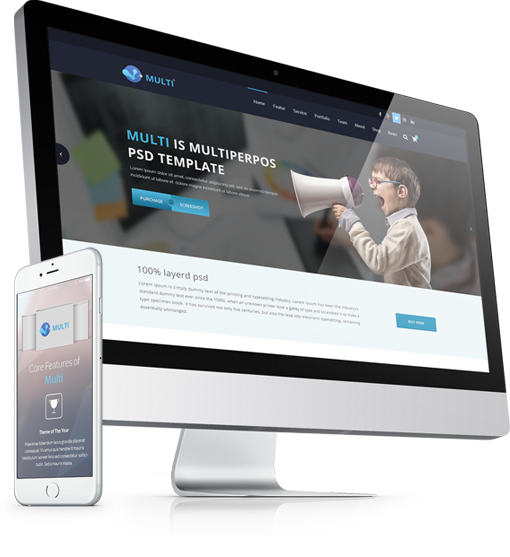
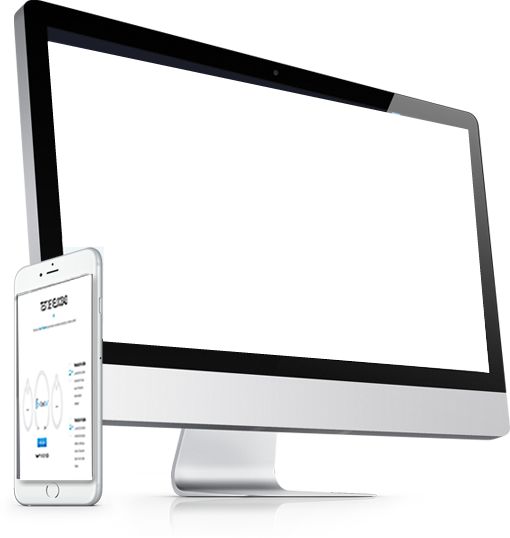
cambios index
cambios index

diff --git a/index.html b/index.html
@@ -95,8 +95,8 @@
         <section id="features">
             <div class="container">
                 <div class="section-header">
-                    <h2 class="section-title text-center wow fadeInDown">Awesome Features</h2>
-                    <p class="text-center wow fadeInDown">Lorem ipsum dolor sit amet, consectetur adipisicing elit, sed do eiusmod tempor incididunt ut <br> et dolore magna aliqua. Ut enim ad minim veniam</p>
+                    <h2 class="section-title text-center wow fadeInDown">CON <b style="color: #2C8FB3">SUPER TV</b> TIENES</h2>
+                    
                 </div>
                 <div class="row">
                     <div class="col-sm-6 wow fadeInLeft">
@@ -108,40 +108,34 @@
                                 <i class="fa fa-line-chart"></i>
                             </div>
                             <div class="media-body">
-                                <h4 class="media-heading">UX design</h4>
-                                <p>Backed by some of the biggest names in the industry, Firefox OS is an open platform that fosters greater</p>
+                                <h4 class="media-heading">Alta velocidad</h4>
+                                <p>Con este servicio accederás fácilmente a las múltiples herramientas de Internet de una manera ágil y segura. Podrás comunicarte mediante correo electrónico, chatear con tus amigos, consultar la información que prefieras y enterarte de todo lo que pasa en el mundo;</p>
                             </div>
                         </div>
 
                         <div class="media service-box wow fadeInRight">
                             <div class="pull-left">
-                                <i class="fa fa-cubes"></i>
+                                <i class="fa fa-headphones"></i>
                             </div>
                             <div class="media-body">
-                                <h4 class="media-heading">UI design</h4>
-                                <p>Backed by some of the biggest names in the industry, Firefox OS is an open platform that fosters greater</p>
+                                <h4 class="media-heading">Asistencia eficaz</h4>
+                                <p>Contamos con un grupo de profesionales para atender tus requerimientos en el menor tiempo posible</p>
                             </div>
                         </div>
 
                         <div class="media service-box wow fadeInRight">
                             <div class="pull-left">
-                                <i class="fa fa-pie-chart"></i>
+                                <i class="fa fa-money"></i>
                             </div>
                             <div class="media-body">
-                                <h4 class="media-heading">SEO Services</h4>
-                                <p>Backed by some of the biggest names in the industry, Firefox OS is an open platform that fosters greater</p>
+                                <h4 class="media-heading">Precios</h4>
+                                <p>
+                                    Contamos con diferentes planes que se acoplan a cualquier necesidad del cliente  a precios muy accesibles  
+                                </p>
                             </div>
                         </div>
 
-                        <div class="media service-box wow fadeInRight">
-                            <div class="pull-left">
-                                <i class="fa fa-pie-chart"></i>
-                            </div>
-                            <div class="media-body">
-                                <h4 class="media-heading">SEO Services</h4>
-                                <p>Backed by some of the biggest names in the industry, Firefox OS is an open platform that fosters greater</p>
-                            </div>
-                        </div>
+                       
                     </div>
                 </div>
             </div>
@@ -162,7 +156,7 @@
             <div class="container">
 
                 <div class="section-header">
-                    <h2 class="section-title text-center wow fadeInDown">Our Services</h2>
+                    <h2 class="section-title text-center wow fadeInDown">NUESTROS SERVICIOS</h2>
                     <p class="text-center wow fadeInDown">Lorem ipsum dolor sit amet, consectetur adipisicing elit, sed do eiusmod tempor incididunt ut <br> et dolore magna aliqua. Ut enim ad minim veniam</p>
                 </div>
 
@@ -352,51 +346,7 @@
             </div><!--/.container-->
         </section><!--/#portfolio-->
 
-        <section id="about">
-            <div class="container">
-
-                <div class="section-header">
-                    <h2 class="section-title text-center wow fadeInDown">About Us</h2>
-                    <p class="text-center wow fadeInDown">Lorem ipsum dolor sit amet, consectetur adipisicing elit, sed do eiusmod tempor incididunt ut <br> et dolore magna aliqua. Ut enim ad minim veniam</p>
-                </div>
-
-                <div class="row">
-                    <div class="col-sm-6 wow fadeInLeft">
-                        <h3 class="column-title">Video Intro</h3>
-                        <!-- 16:9 aspect ratio -->
-                        <div class="embed-responsive embed-responsive-16by9">
-                            <iframe src="//player.vimeo.com/video/58093852?title=0&amp;byline=0&amp;portrait=0&amp;color=e79b39" frameborder="0" webkitallowfullscreen mozallowfullscreen allowfullscreen></iframe>
-                        </div>
-                    </div>
-
-                    <div class="col-sm-6 wow fadeInRight">
-                        <h3 class="column-title">Multi Capability</h3>
-                        <p>Lorem Ipsum is simply dummy text of the printing and typesetting industry. Lorem Ipsum has been the industry's standard dummy text ever since the 1500s, when an unknown printer took a galley of type and scrambled it to make a type specimen book.</p>
-
-                        <p>Lorem Ipsum has been the industry's standard dummy text ever since the 1500s, when an unknown printer took a galley of type and scrambled it to make a type specimen book.</p>
-
-                        <div class="row">
-                            <div class="col-sm-6">
-                                <ul class="nostyle">
-                                    <li><i class="fa fa-check-square"></i> Ipsum is simply dummy</li>
-                                    <li><i class="fa fa-check-square"></i> When an unknown</li>
-                                </ul>
-                            </div>
-
-                            <div class="col-sm-6">
-                                <ul class="nostyle">
-                                    <li><i class="fa fa-check-square"></i> The printing and typesetting</li>
-                                    <li><i class="fa fa-check-square"></i> Lorem Ipsum has been</li>
-                                </ul>
-                            </div>
-                        </div>
-
-                        <a class="btn btn-primary" href="#">Learn More</a>
-
-                    </div>
-                </div>
-            </div>
-        </section><!--/#about-->
+        
 
         <section id="work-process">
             <div class="container">
@@ -698,8 +648,8 @@
         <section id="pricing">
             <div class="container">
                 <div class="section-header">
-                    <h2 class="section-title text-center wow fadeInDown">Pricing Table</h2>
-                    <p class="text-center wow fadeInDown">Lorem ipsum dolor sit amet, consectetur adipisicing elit, sed do eiusmod tempor incididunt ut <br> et dolore magna aliqua. Ut enim ad minim veniam</p>
+                    <h2 class="section-title text-center wow fadeInDown">PRECIOS</h2>
+                    <p class="text-center wow fadeInDown">Super TV te ofrece precios accesibles, que se acoplan a cualquier necesidad  </p>
                 </div>
 
                 <div class="row">
@@ -815,140 +765,14 @@
             </div>
         </section><!--/#pricing-->
 
-        <section id="testimonial">
-            <div class="container">
-                <div class="row">
-                    <div class="col-sm-8 col-sm-offset-2">
+        
 
-                        <div id="carousel-testimonial" class="carousel slide text-center" data-ride="carousel">
-                            <!-- Wrapper for slides -->
-                            <div class="carousel-inner" role="listbox">
-                                <div class="item active">
-                                    <p><img class="img-circle img-thumbnail" src="images/testimonial/01.jpg" alt=""></p>
-                                    <h4>Louise S. Morgan</h4>
-                                    <small>Treatment, storage, and disposal (TSD) worker</small>
-                                    <p>Lorem ipsum dolor sit amet, consectetur adipisicing elit, sed do eiusmod tempor incididunt ut et dolore magna aliqua. Ut enim ad minim veniam</p>
-                                </div>
-                                <div class="item">
-                                    <p><img class="img-circle img-thumbnail" src="images/testimonial/01.jpg" alt=""></p>
-                                    <h4>Louise S. Morgan</h4>
-                                    <small>Treatment, storage, and disposal (TSD) worker</small>
-                                    <p>Lorem ipsum dolor sit amet, consectetur adipisicing elit, sed do eiusmod tempor incididunt ut et dolore magna aliqua. Ut enim ad minim veniam</p>
-                                </div>
-                            </div>
-
-                            <!-- Controls -->
-                            <div class="btns">
-                                <a class="btn btn-primary btn-sm" href="#carousel-testimonial" role="button" data-slide="prev">
-                                    <span class="fa fa-angle-left" aria-hidden="true"></span>
-                                    <span class="sr-only">Previous</span>
-                                </a>
-                                <a class="btn btn-primary btn-sm" href="#carousel-testimonial" role="button" data-slide="next">
-                                    <span class="fa fa-angle-right" aria-hidden="true"></span>
-                                    <span class="sr-only">Next</span>
-                                </a>
-                            </div>
-                        </div>
-                    </div>
-                </div>
-            </div>
-        </section><!--/#testimonial-->
-
-        <section id="blog">
-            <div class="container">
-                <div class="section-header">
-                    <h2 class="section-title text-center wow fadeInDown">Latest Blogs</h2>
-                    <p class="text-center wow fadeInDown">Lorem ipsum dolor sit amet, consectetur adipisicing elit, sed do eiusmod tempor incididunt ut <br> et dolore magna aliqua. Ut enim ad minim veniam</p>
-                </div>
-
-                <div class="row">
-                    <div class="col-sm-6">
-                        <div class="blog-post blog-large wow fadeInLeft" data-wow-duration="300ms" data-wow-delay="0ms">
-                            <article>
-                                <header class="entry-header">
-                                    <div class="entry-thumbnail">
-                                        <img class="img-responsive" src="images/blog/01.jpg" alt="">
-                                        <span class="post-format post-format-video"><i class="fa fa-film"></i></span>
-                                    </div>
-                                    <div class="entry-date">25 November 2014</div>
-                                    <h2 class="entry-title"><a href="#">While now the fated Pequod had been so long afloat this</a></h2>
-                                </header>
-
-                                <div class="entry-content">
-                                    <P>With a blow from the top-maul Ahab knocked off the steel head of the lance, and then handing to the mate the long iron rod remaining, bade him hold it upright, without its touching off the steel head of the lance, and then handing to the mate the long iron rod remaining. without its touching off the steel without its touching off the steel</P>
-                                    <a class="btn btn-primary" href="#">Read More</a>
-                                </div>
-
-                                <footer class="entry-meta">
-                                    <span class="entry-author"><i class="fa fa-pencil"></i> <a href="#">Victor</a></span>
-                                    <span class="entry-category"><i class="fa fa-folder-o"></i> <a href="#">Tutorial</a></span>
-                                    <span class="entry-comments"><i class="fa fa-comments-o"></i> <a href="#">15</a></span>
-                                </footer>
-                            </article>
-                        </div>
-                    </div><!--/.col-sm-6-->
-                    <div class="col-sm-6">
-                        <div class="blog-post blog-media wow fadeInRight" data-wow-duration="300ms" data-wow-delay="100ms">
-                            <article class="media clearfix">
-                                <div class="entry-thumbnail pull-left">
-                                    <img class="img-responsive" src="images/blog/02.jpg" alt="">
-                                    <span class="post-format post-format-gallery"><i class="fa fa-image"></i></span>
-                                </div>
-                                <div class="media-body">
-                                    <header class="entry-header">
-                                        <div class="entry-date">01 December 2014</div>
-                                        <h2 class="entry-title"><a href="#">BeReviews was a awesome envent in dhaka</a></h2>
-                                    </header>
-
-                                    <div class="entry-content">
-                                        <P>With a blow from the top-maul Ahab knocked off the steel head of the lance, and then handing to the steel</P>
-                                        <a class="btn btn-primary" href="#">Read More</a>
-                                    </div>
-
-                                    <footer class="entry-meta">
-                                        <span class="entry-author"><i class="fa fa-pencil"></i> <a href="#">Campbell</a></span>
-                                        <span class="entry-category"><i class="fa fa-folder-o"></i> <a href="#">Tutorial</a></span>
-                                        <span class="entry-comments"><i class="fa fa-comments-o"></i> <a href="#">15</a></span>
-                                    </footer>
-                                </div>
-                            </article>
-                        </div>
-                        <div class="blog-post blog-media wow fadeInRight" data-wow-duration="300ms" data-wow-delay="200ms">
-                            <article class="media clearfix">
-                                <div class="entry-thumbnail pull-left">
-                                    <img class="img-responsive" src="images/blog/03.jpg" alt="">
-                                    <span class="post-format post-format-audio"><i class="fa fa-music"></i></span>
-                                </div>
-                                <div class="media-body">
-                                    <header class="entry-header">
-                                        <div class="entry-date">03 November 2014</div>
-                                        <h2 class="entry-title"><a href="#">Play list of old bangle  music and gajal</a></h2>
-                                    </header>
-
-                                    <div class="entry-content">
-                                        <P>With a blow from the top-maul Ahab knocked off the steel head of the lance, and then handing to the steel</P>
-                                        <a class="btn btn-primary" href="#">Read More</a>
-                                    </div>
-
-                                    <footer class="entry-meta">
-                                        <span class="entry-author"><i class="fa fa-pencil"></i> <a href="#">Ruth</a></span>
-                                        <span class="entry-category"><i class="fa fa-folder-o"></i> <a href="#">Tutorial</a></span>
-                                        <span class="entry-comments"><i class="fa fa-comments-o"></i> <a href="#">15</a></span>
-                                    </footer>
-                                </div>
-                            </article>
-                        </div>
-                    </div>
-                </div>
-
-            </div>
-        </section>
-
+       
         <section id="get-in-touch">
             <div class="container">
                 <div class="section-header">
-                    <h2 class="section-title text-center wow fadeInDown">Get in Touch</h2>
-                    <p class="text-center wow fadeInDown">Lorem ipsum dolor sit amet, consectetur adipisicing elit, sed do eiusmod tempor incididunt ut <br> et dolore magna aliqua. Ut enim ad minim veniam</p>
+                    <h2 class="section-title text-center wow fadeInDown">Anímate y envíanos un mensaje </h2>
+                    <p class="text-center wow fadeInDown"><a class="btn btn-default btn-lg" href="Contacto.html">Enviar mensaje</a></p>
                 </div>
             </div>
         </section><!--/#get-in-touch-->
